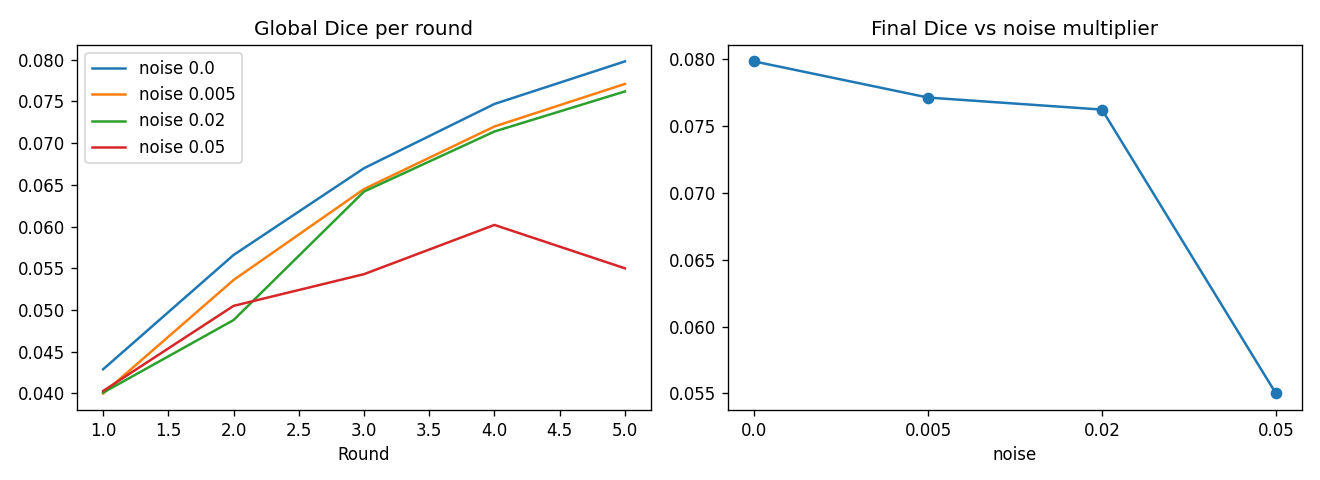
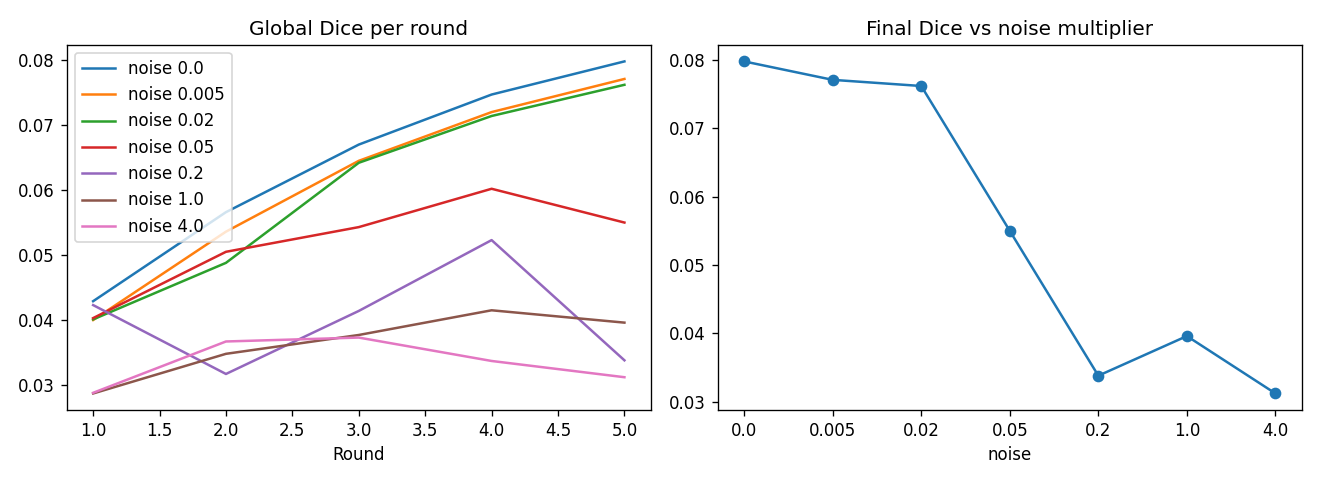
Day 17: privacy accountant, larger noise points

diff --git a/backend/src/privacy/accountant.py b/backend/src/privacy/accountant.py
@@ -1,0 +1,15 @@
+"""Approximate (epsilon, delta) for the Gaussian mechanism with simple composition.
+Assumptions: per-hospital update clipped to L2 norm C, noise std = z*C per value,
+each round is one release, delta = 1e-5 per round, no subsampling amplification.
+Valid classic bound needs epsilon_round <= 1; values above that are only indicative."""
+import math
+
+def eps_per_round(z, delta=1e-5):
+    return math.sqrt(2 * math.log(1.25 / delta)) / z
+
+if __name__ == "__main__":
+    rounds = 5
+    print(f"{'noise z':>8} | {'eps/round':>10} | {'eps after '+str(rounds)+' rounds':>18}")
+    for z in (0.005, 0.02, 0.05, 0.2, 1.0, 4.0):
+        e = eps_per_round(z)
+        print(f"{z:>8} | {e:>10.1f} | {e*rounds:>18.1f}")
